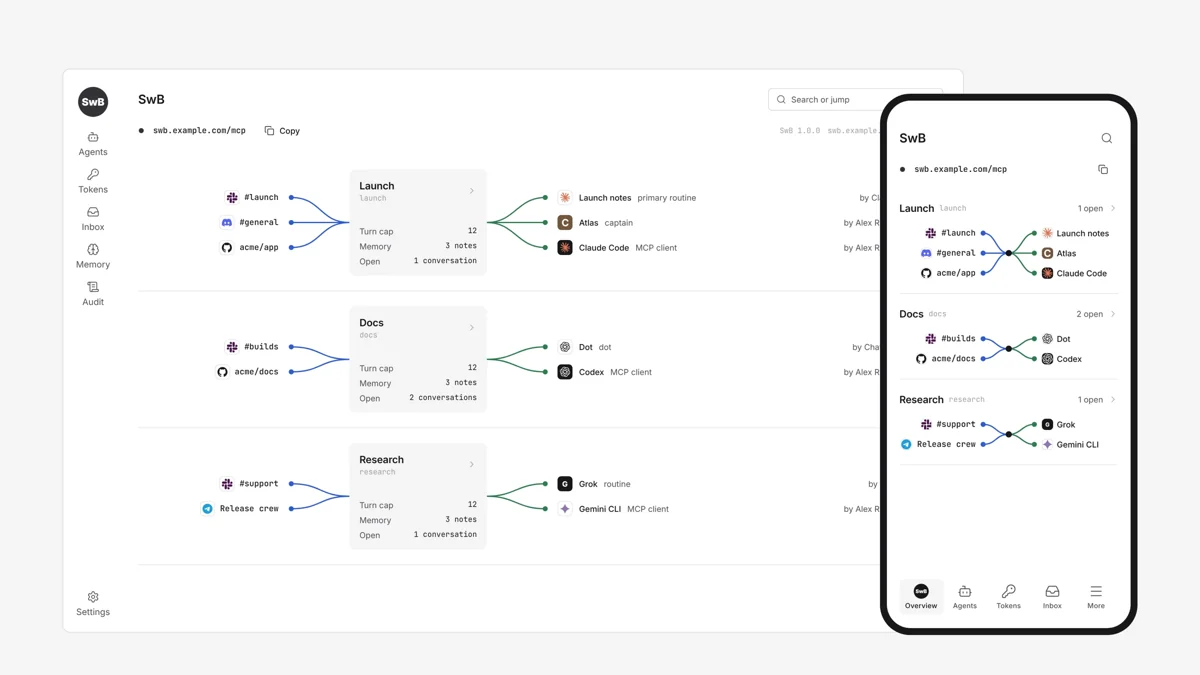
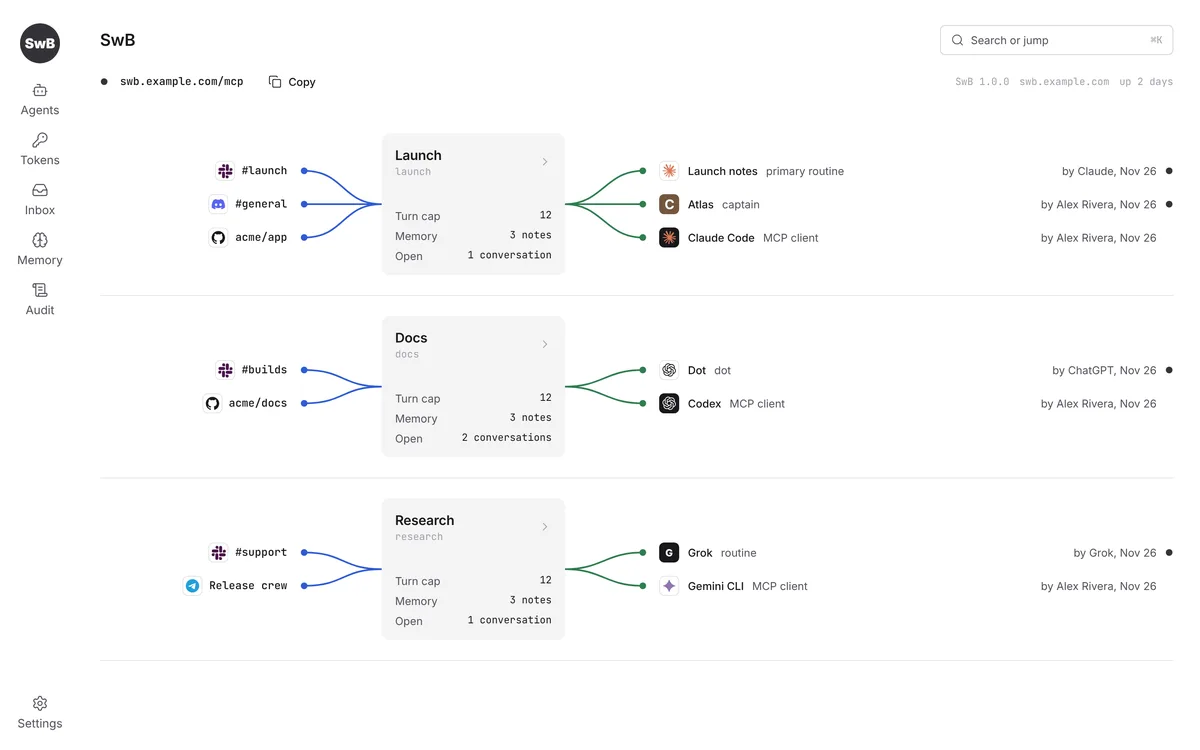
site: gemini star, clean product shot, message flow and step cord

diff --git a/site/components/conversation.tsx b/site/components/conversation.tsx
@@ -1,0 +1,51 @@
+import { MarkTile } from './mark-tile';
+
+type Line = { who: 'you' | 'claude' | 'capy'; name: string; text: string };
+
+export function Conversation({ title, channel, you, lines }: { title: string; channel: string; you: string; lines: Line[] }) {
+  return (
+    <section className="swb-convo py-12 sm:py-20">
+      <h2 className="font-display text-3xl font-extrabold tracking-tight sm:text-4xl">{title}</h2>
+      <div className="mt-10 grid items-center gap-10 lg:grid-cols-[minmax(0,1fr)_300px] lg:gap-16">
+        <div className="swb-thread rounded-xl border bg-fd-background">
+          <div className="flex items-center gap-2.5 border-b px-5 py-3.5">
+            <MarkTile kind="slack" />
+            <span className="font-mono text-sm">{channel}</span>
+          </div>
+          <ol className="swb-thread-lines space-y-5 px-5 py-6" aria-label={title}>
+            {lines.map((line, index) => (
+              <li key={index} className="swb-line flex gap-3" style={{ animationDelay: `${index * 2.2}s` }}>
+                {line.who === 'you'
+                  ? <span className="swb-you grid size-9 shrink-0 place-items-center rounded-md font-semibold" aria-hidden="true">{you.slice(0, 1)}</span>
+                  : <MarkTile kind={line.who} className="swb-line-avatar" />}
+                <div className="min-w-0">
+                  <p className="text-sm font-semibold">{line.name}</p>
+                  <p className="mt-0.5 text-[15px] leading-relaxed">{line.text}</p>
+                </div>
+              </li>
+            ))}
+          </ol>
+        </div>
+        <svg className="swb-route mx-auto hidden w-full max-w-[300px] lg:block" viewBox="0 0 300 360" aria-hidden="true">
+          <path id="swb-r1" d="M60 40 C60 120 150 100 150 180" className="swb-cord swb-cord-in" />
+          <path id="swb-r2" d="M150 180 C150 260 60 240 60 320" className="swb-cord swb-cord-out" />
+          <path id="swb-r3" d="M150 180 C150 260 240 240 240 320" className="swb-cord swb-cord-out" />
+          {[['swb-r1', 0, 'swb-pulse-in', '0;1'], ['swb-r2', 1, 'swb-pulse-out', '0;1'], ['swb-r2', 2.2, 'swb-pulse-back', '1;0'], ['swb-r1', 3.2, 'swb-pulse-back', '1;0'],
+            ['swb-r1', 4.4, 'swb-pulse-in', '0;1'], ['swb-r3', 5.4, 'swb-pulse-out', '0;1'], ['swb-r3', 6.6, 'swb-pulse-back', '1;0'], ['swb-r1', 7.6, 'swb-pulse-back', '1;0']]
+            .map(([path, begin, cls, points], index) => (
+              <circle key={index} r={6} className={`swb-pulse ${cls}`} visibility="hidden">
+                <set attributeName="visibility" to="visible" begin={`${begin}s;${Number(begin) + 8.8}s`} dur="1s" />
+                <animateMotion dur="1s" begin={`${begin}s;${Number(begin) + 8.8}s`} keyTimes="0;1" keyPoints={String(points)} calcMode="linear">
+                  <mpath href={`#${path}`} />
+                </animateMotion>
+              </circle>
+            ))}
+          <foreignObject x="36" y="16" width="48" height="48"><MarkTile kind="slack" className="swb-route-node" /></foreignObject>
+          <image href="/marks/swb.svg" x="122" y="152" width="56" height="56" />
+          <foreignObject x="36" y="296" width="48" height="48"><MarkTile kind="claude" className="swb-route-node" /></foreignObject>
+          <foreignObject x="216" y="296" width="48" height="48"><MarkTile kind="capy" className="swb-route-node" /></foreignObject>
+        </svg>
+      </div>
+    </section>
+  );
+}

diff --git a/site/lib/landing-copy.ts b/site/lib/landing-copy.ts
@@ -21,6 +21,14 @@ const en = {
     'Claude', 'ChatGPT', 'Gemini', 'Claude Code', 'Codex', 'Capy',
     'Grok', 'Slack', 'Discord', 'Telegram', 'GitHub',
   ],
+  convoTitle: 'Follow one message',
+  channel: '#launch',
+  you: 'You',
+  convo: [
+    { who: 'you', name: 'You', text: 'Can someone draft the 1.0 release notes from the merged PRs?' },
+    { who: 'claude', name: 'Claude', text: 'On it. I read the merged PRs and saved a draft to the Launch project.' },
+    { who: 'capy', name: 'Captain', text: 'I picked up the draft and opened a PR for your review.' },
+  ] as { who: 'you' | 'claude' | 'capy'; name: string; text: string }[],
   steps: [
     { title: 'Start SwB', description: 'Run one command on your computer or server.' },
     { title: 'Add it to one agent', description: 'Give the agent your SwB address.' },
@@ -43,6 +51,13 @@ export const landingCopy: Record<Locale, typeof en> = {
     boardAlt: 'Slack、Discord、Telegram 和 GitHub 经由 SwB 接通 Claude、ChatGPT、Capy、Grok、Codex 和 Claude Code',
     language: '语言',
     theme: { light: '浅色主题', dark: '深色主题' },
+    convoTitle: '跟随一条消息',
+    you: '你',
+    convo: [
+      { who: 'you', name: '你', text: '谁能根据已合并的 PR 起草 1.0 发布说明？' },
+      { who: 'claude', name: 'Claude', text: '好的。我读完了已合并的 PR，草稿已存入 Launch 项目。' },
+      { who: 'capy', name: 'Captain', text: '我接手了草稿，并开了一个 PR 等你审阅。' },
+    ],
     steps: [
       { title: '启动 SwB', description: '在电脑或服务器上运行一条命令。' },
       { title: '接入一个智能体', description: '把 SwB 地址交给这个智能体。' },
@@ -62,6 +77,13 @@ export const landingCopy: Record<Locale, typeof en> = {
     boardAlt: 'Slack、Discord、Telegram 與 GitHub 經由 SwB 接通 Claude、ChatGPT、Capy、Grok、Codex 與 Claude Code',
     language: '語言',
     theme: { light: '淺色主題', dark: '深色主題' },
+    convoTitle: '跟著一則訊息',
+    you: '你',
+    convo: [
+      { who: 'you', name: '你', text: '誰能根據已合併的 PR 起草 1.0 版本說明？' },
+      { who: 'claude', name: 'Claude', text: '好的。我讀完了已合併的 PR，草稿已存入 Launch 專案。' },
+      { who: 'capy', name: 'Captain', text: '我接手了草稿，並開了一個 PR 等你審閱。' },
+    ],
     steps: [
       { title: '啟動 SwB', description: '在電腦或伺服器上執行一個指令。' },
       { title: '接上一個代理', description: '把 SwB 位址交給這個代理。' },

diff --git a/site/app/[lang]/(home)/page.tsx b/site/app/[lang]/(home)/page.tsx
@@ -7,6 +7,8 @@ import { isLocale, localize } from '@/lib/i18n';
 import { landingCopy } from '@/lib/landing-copy';
 import { pageMetadata } from '@/lib/metadata';
 import { MarkTile, type MarkKind } from '@/components/mark-tile';
+import { Conversation } from '@/components/conversation';
+import { StepFlow } from '@/components/step-flow';
 import { SwitchboardHero } from '@/components/switchboard-hero';
 import { repository } from '@/lib/source';
 
@@ -53,11 +55,11 @@ export default async function Landing({ params }: PageProps<'/[lang]'>) {
           </div>
         </section>
         <SwitchboardHero label={copy.boardAlt} />
-        <figure className="mt-16 overflow-hidden rounded-lg sm:mt-24">
-          <img className="block h-auto w-full dark:hidden" width={2400} height={1350}
+        <figure className="swb-shot mt-16 overflow-hidden rounded-xl border sm:mt-24">
+          <img className="block h-auto w-full dark:hidden" width={2400} height={1500}
             src="/shots/hero-light.webp" srcSet="/shots/hero-light-1200.webp 1200w, /shots/hero-light.webp 2400w"
             sizes="(min-width: 1152px) 1088px, 100vw" alt={copy.shotAlt} fetchPriority="high" />
-          <img className="hidden h-auto w-full dark:block" width={2400} height={1350}
+          <img className="hidden h-auto w-full dark:block" width={2400} height={1500}
             src="/shots/hero-dark.webp" srcSet="/shots/hero-dark-1200.webp 1200w, /shots/hero-dark.webp 2400w"
             sizes="(min-width: 1152px) 1088px, 100vw" alt={copy.shotAlt} loading="lazy" />
         </figure>
@@ -69,15 +71,8 @@ export default async function Landing({ params }: PageProps<'/[lang]'>) {
             </figure>
           ))}
         </div>
-        <section className="grid gap-8 border-t py-10 md:grid-cols-3 md:gap-12 md:py-14">
-          {copy.steps.map(({ title, description }, index) => (
-            <div key={title}>
-              <span className="text-display-xl block text-fd-muted-foreground" aria-hidden="true">{index + 1}</span>
-              <h2 className="mt-2.5 font-display text-xl font-extrabold">{title}</h2>
-              <p className="mt-1 text-sm text-fd-muted-foreground">{description}</p>
-            </div>
-          ))}
-        </section>
+        <Conversation title={copy.convoTitle} channel={copy.channel} you={copy.you} lines={copy.convo} />
+        <StepFlow steps={copy.steps} />
       </main>
       <footer className="border-t">
         <div className="mx-auto flex max-w-6xl flex-wrap items-center justify-between gap-3 px-5 py-4 text-sm text-fd-muted-foreground sm:px-8">

diff --git a/site/app/global.css b/site/app/global.css
@@ -207,3 +207,62 @@
 .swb-connectors .swb-mark-tile-capy {
   border-radius: 9999px;
 }
+
+@keyframes swb-draw { from { stroke-dashoffset: 1; } to { stroke-dashoffset: 0; } }
+@keyframes swb-ping { 0% { transform: translate(-50%, -50%) scale(1); opacity: .5; } 100% { transform: translate(-50%, -50%) scale(1.9); opacity: 0; } }
+@keyframes swb-line-in {
+  0%, 2% { opacity: 0; transform: translateY(8px); }
+  6%, 92% { opacity: 1; transform: none; }
+  100% { opacity: 0; }
+}
+
+.swb-board .swb-cord { stroke-dasharray: 1; stroke-dashoffset: 0; }
+.swb-board .swb-cord-in { animation: swb-draw 1.1s ease-out both; }
+.swb-board .swb-cord-out { animation: swb-draw 1.1s .5s ease-out both; }
+.swb-hub-ring {
+  position: absolute;
+  width: 6.4cqw;
+  height: 6.4cqw;
+  border: 2px solid var(--accent);
+  border-radius: 9999px;
+  transform: translate(-50%, -50%);
+  animation: swb-ping 3.2s 1.6s ease-out infinite;
+}
+
+.swb-thread, .swb-shot { box-shadow: var(--toast-shadow); }
+.swb-shot { transform: perspective(1600px) rotateX(4deg); transform-origin: 50% 0; transition: transform .6s ease; }
+.swb-shot:hover { transform: none; }
+.swb-thread-lines { min-height: 15rem; }
+.swb-line { opacity: 0; animation: swb-line-in 8.8s ease-out infinite; }
+.swb-you { background: var(--surface-sunken); color: var(--foreground); }
+.swb-line-avatar.swb-mark-tile { width: 36px; height: 36px; border-radius: 8px; }
+.swb-line-avatar.swb-mark-tile-capy { border-radius: 9999px; }
+.swb-route-node.swb-mark-tile { width: 48px; height: 48px; border-radius: 10px; }
+.swb-route-node.swb-mark-tile-capy { border-radius: 9999px; }
+
+.swb-flow-cord {
+  position: absolute;
+  top: calc(4rem + 2px);
+  left: 0;
+  width: 100%;
+  height: 20px;
+  display: none;
+}
+@media (min-width: 768px) { .swb-flow-cord { display: block; } }
+@media (min-width: 640px) { .swb-flow-cord { top: calc(6rem + 2px); } }
+.swb-flow-jack {
+  display: block;
+  width: 24px;
+  height: 24px;
+  border-radius: 9999px;
+  background: var(--socket);
+  box-shadow: inset 0 0 0 6px var(--socket-inner), 0 0 0 4px var(--background);
+}
+
+@media (prefers-reduced-motion: reduce) {
+  .swb-board .swb-cord, .swb-hub-ring { animation: none; }
+  .swb-hub-ring { display: none; }
+  .swb-shot { transform: none; transition: none; }
+  .swb-line { animation: none; opacity: 1; }
+  .swb-flow .swb-pulse, .swb-route .swb-pulse { display: none; }
+}

diff --git a/site/components/switchboard-hero.tsx b/site/components/switchboard-hero.tsx
@@ -35,10 +35,10 @@ export function SwitchboardHero({ label }: { label: string }) {
     <figure className="swb-board" role="img" aria-label={label}>
       <svg className="absolute inset-0 size-full" viewBox={`0 0 ${W} ${H}`} aria-hidden="true">
         {channels.map(({ y }, index) => (
-          <path key={`in${index}`} id={`swb-in-${index}`} d={inPath(y)} className="swb-cord swb-cord-in" />
+          <path key={`in${index}`} id={`swb-in-${index}`} d={inPath(y)} className="swb-cord swb-cord-in" pathLength={1} />
         ))}
         {agents.map(({ y }, index) => (
-          <path key={`out${index}`} id={`swb-out-${index}`} d={outPath(y)} className="swb-cord swb-cord-out" />
+          <path key={`out${index}`} id={`swb-out-${index}`} d={outPath(y)} className="swb-cord swb-cord-out" pathLength={1} />
         ))}
         {channels.map(({ y }, index) => <circle key={`ji${index}`} cx={284} cy={y} r={4} className="swb-jack swb-jack-in" />)}
         {agents.map(({ y }, index) => <circle key={`jo${index}`} cx={816} cy={y} r={4} className="swb-jack swb-jack-out" />)}
@@ -79,6 +79,7 @@ export function SwitchboardHero({ label }: { label: string }) {
           <MarkTile kind={kind} />
         </div>
       ))}
+      <span className="swb-hub-ring" style={{ left: pct(HUB.x, W), top: pct(HUB.y, H) }} aria-hidden="true" />
       <img className="swb-hub" src="/marks/swb.svg" alt="" style={{ left: pct(HUB.x, W), top: pct(HUB.y, H) }} />
       {agents.map(({ kind, label: name, y }) => (
         <div key={name} className="swb-node swb-node-out" style={{ top: pct(y, H), left: pct(824, W) }}>

diff --git a/site/components/step-flow.tsx b/site/components/step-flow.tsx
@@ -1,0 +1,21 @@
+export function StepFlow({ steps }: { steps: { title: string; description: string }[] }) {
+  return (
+    <section className="swb-flow relative py-16 sm:py-24">
+      <svg className="swb-flow-cord" viewBox="0 0 1000 20" preserveAspectRatio="none" aria-hidden="true">
+        <path id="swb-flow-path" d="M10 10 H990" className="swb-cord swb-cord-out" />
+        <circle r={6} className="swb-pulse swb-pulse-out">
+          <animateMotion dur="6s" repeatCount="indefinite" keyTimes="0;1" keyPoints="0;1" calcMode="linear"><mpath href="#swb-flow-path" /></animateMotion>
+        </circle>
+      </svg>
+      <div className="relative grid gap-10 md:grid-cols-3 md:gap-12">
+        {steps.map(({ title, description }) => (
+          <div key={title} className="swb-flow-step">
+            <span className="swb-flow-jack" aria-hidden="true" />
+            <h2 className="mt-6 font-display text-xl font-extrabold">{title}</h2>
+            <p className="mt-1.5 text-sm text-fd-muted-foreground">{description}</p>
+          </div>
+        ))}
+      </div>
+    </section>
+  );
+}

diff --git a/site/components/mark-tile.tsx b/site/components/mark-tile.tsx
@@ -7,7 +7,7 @@ export type MarkKind =
 const color: Partial<Record<MarkKind, string>> = {
   claude: '/marks/claude.svg',
   'claude-code': '/marks/claude.svg',
-  gemini: '/marks/gemini.svg',
+  gemini: '/marks/gemini-star.webp',
   discord: '/marks/discord.svg',
   telegram: '/marks/telegram.svg',
 };
